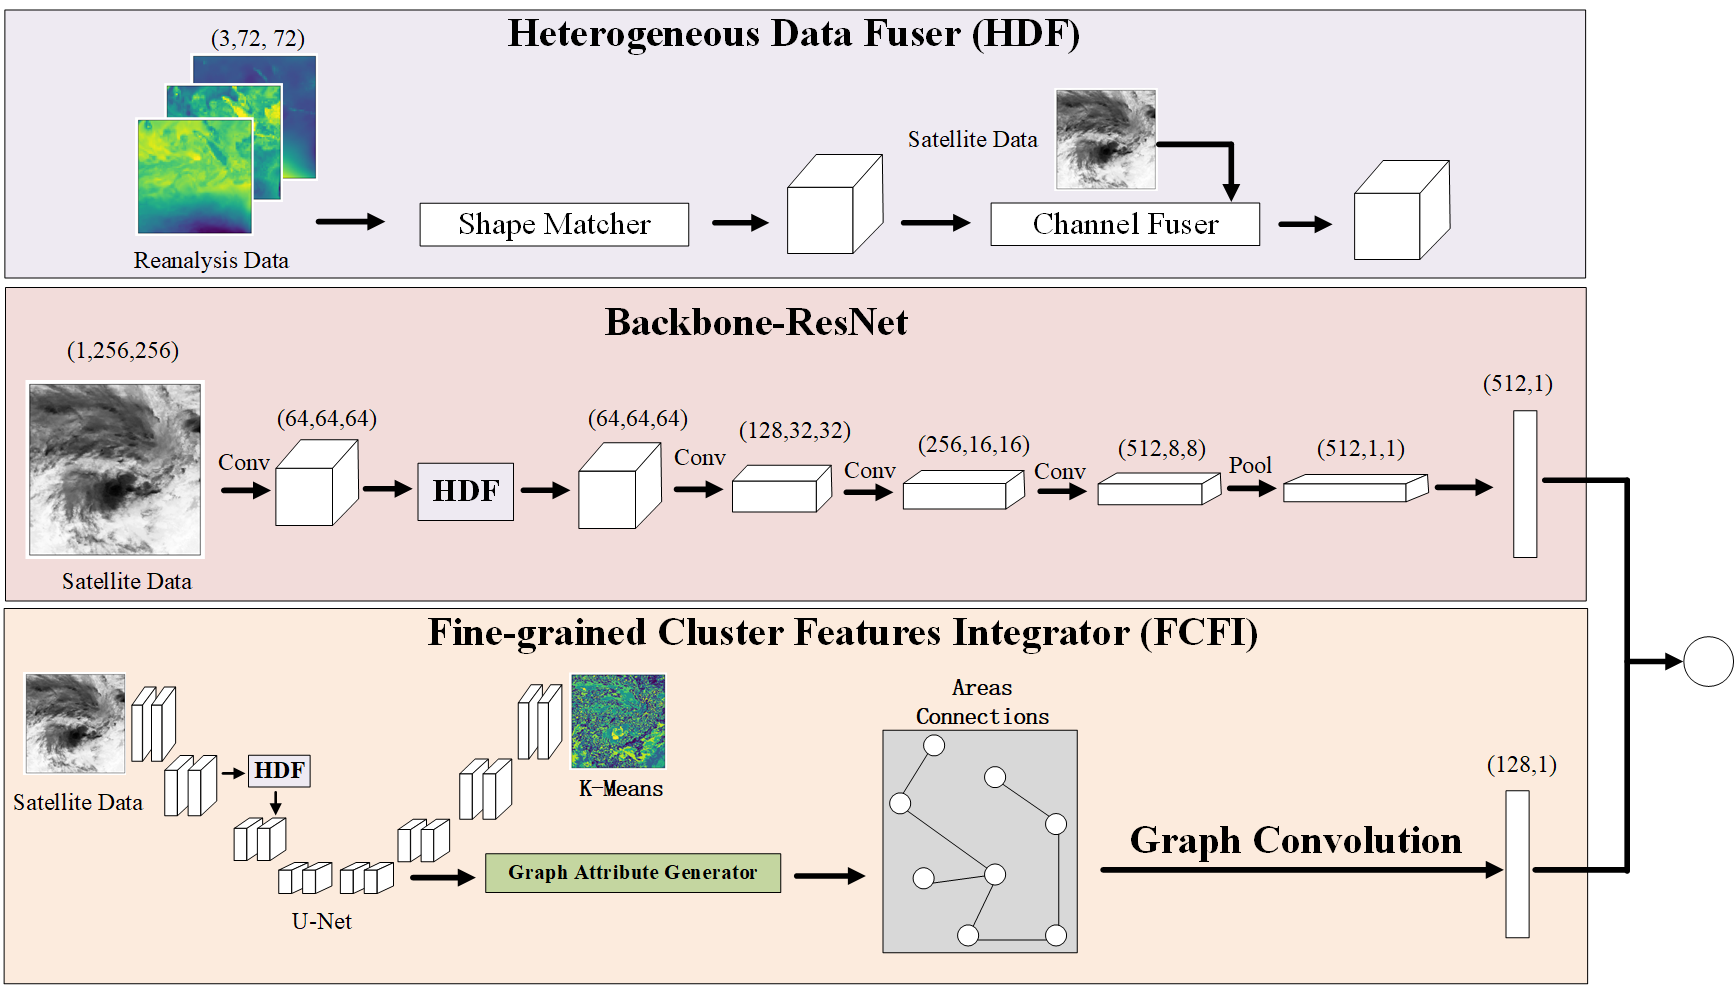
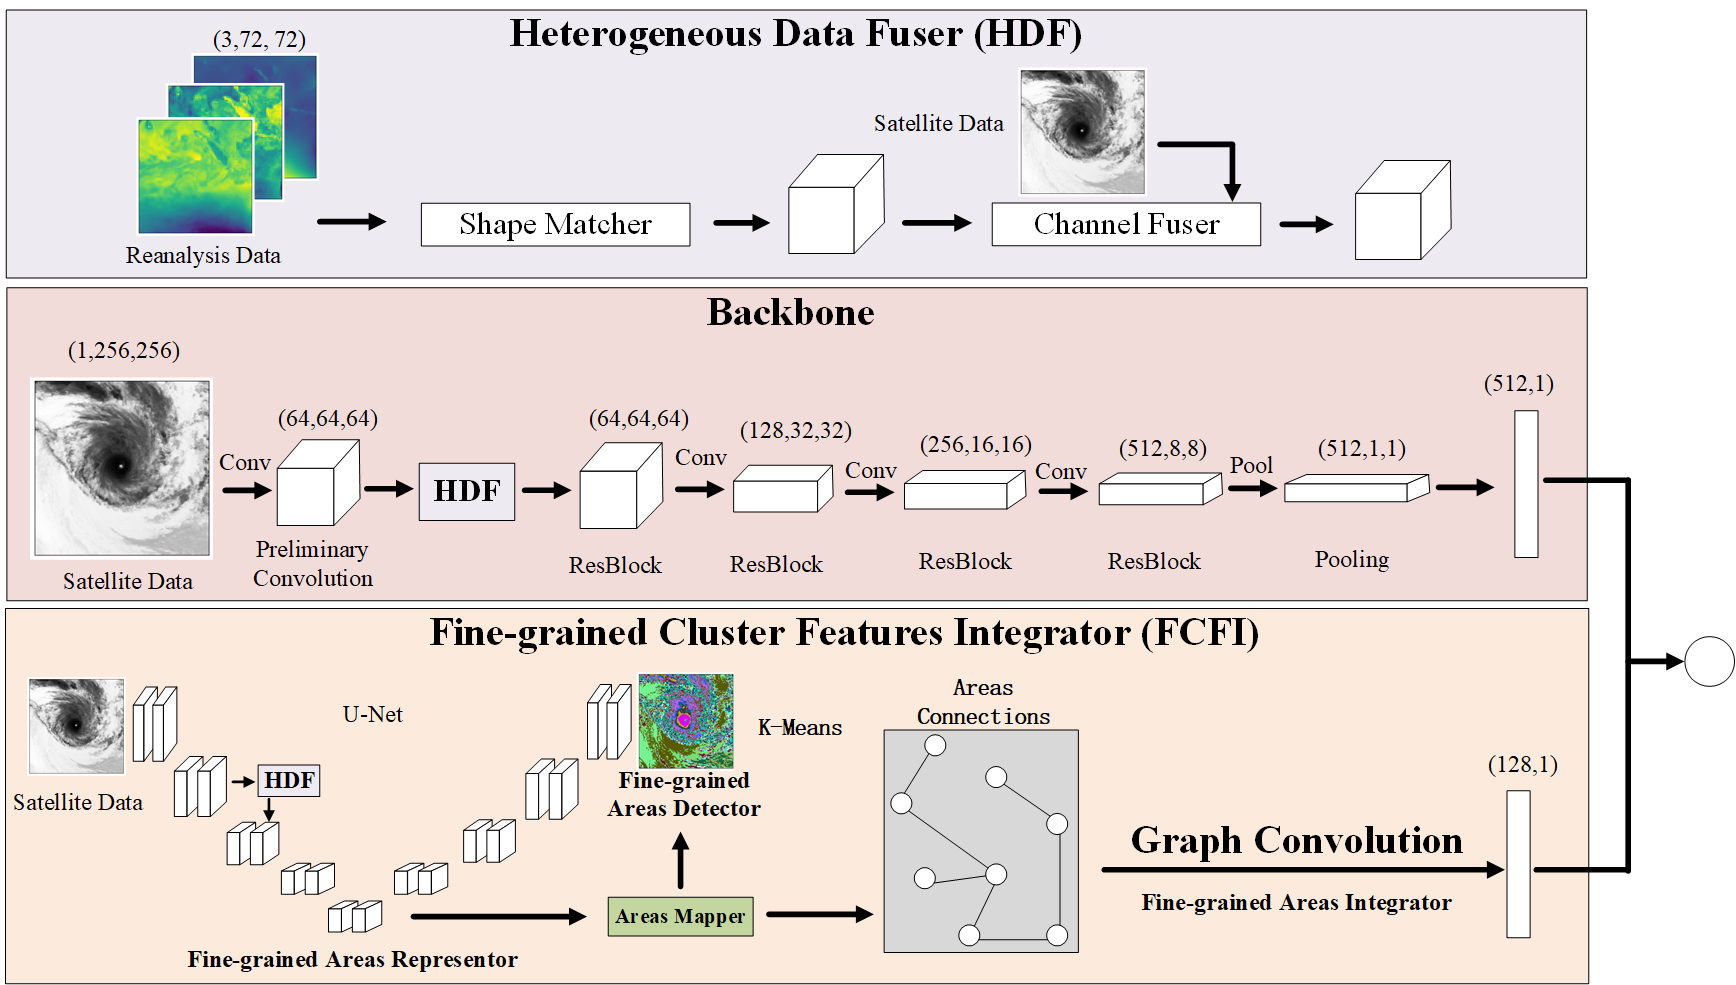
first commit

diff --git a/model/UNet.py b/model/UNet.py
@@ -35,15 +35,16 @@ class UNetUp(nn.Module):
         return x
 
 class UNet(nn.Module):
-    def __init__(self, in_channels=3, out_channels=3):
+    def __init__(self, in_channels=3, out_channels=3, num_cluster=20):
         super(UNet, self).__init__()
-
+        self.num_cluster = num_cluster
         self.down1 = UNetDown(in_channels, 64, normalize=False)
         self.down2 = UNetDown(64, 128)
         self.down3 = UNetDown(128, 256)
         self.down4 = UNetDown(256, 512, dropout=0.5)
         self.down5 = UNetDown(512, 512, normalize=False, dropout=0.5)
 
+        # shape matcher
         self.reanalysis_feature_extractor = nn.Sequential(
             nn.Conv2d(in_channels=3, out_channels=32, kernel_size=5, stride=1, padding=0),
             nn.BatchNorm2d(32, eps=1e-05, momentum=0.1, affine=True, track_running_stats=True),
@@ -56,18 +57,20 @@ class UNet(nn.Module):
             nn.ReLU(inplace=True)
         )
 
+        # channel fuser
         self.fusion = nn.Sequential(
             nn.Conv2d(128*2, 128, kernel_size=(3, 3), stride=(1, 1), padding=(1, 1), bias=False),
             nn.BatchNorm2d(128, eps=1e-05, momentum=0.1, affine=True, track_running_stats=True),
             nn.ReLU(inplace=True)
         )
-        
+
+        # areas mapper
         self.generator_cnn = nn.Sequential(
             nn.Conv2d(in_channels=512, out_channels=128, kernel_size=3, padding=1),
             nn.BatchNorm2d(128),
             # nn.LeakyReLU(0.2),
-            nn.Conv2d(in_channels=128, out_channels=20, kernel_size=3, padding=1),
-            nn.BatchNorm2d(20),
+            nn.Conv2d(in_channels=128, out_channels=self.num_cluster, kernel_size=3, padding=1),
+            nn.BatchNorm2d(self.num_cluster),
             # nn.LeakyReLU(0.2),
         )
 

diff --git a/model/FHDTIE.py b/model/FHDTIE.py
@@ -53,7 +53,7 @@ class FHDTIE(nn.Module):
         )
 
         # FCFI
-        self.unet = UNet(in_channels=self.in_channel, out_channels=self.num_cluster)
+        self.unet = UNet(in_channels=self.in_channel, out_channels=self.num_cluster, num_cluster=self.num_cluster)
         
 
         self.gcn1 = GCN(in_features=self.gcn_hidden1, out_features=self.gcn_hidden2)
